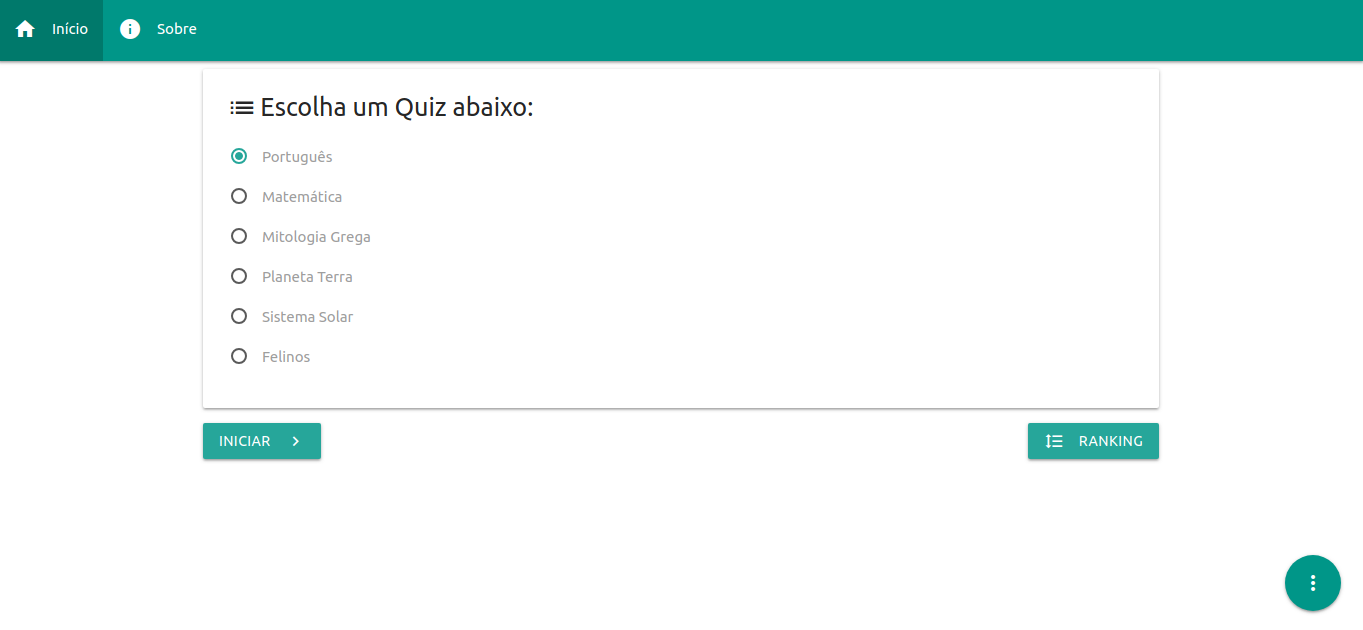
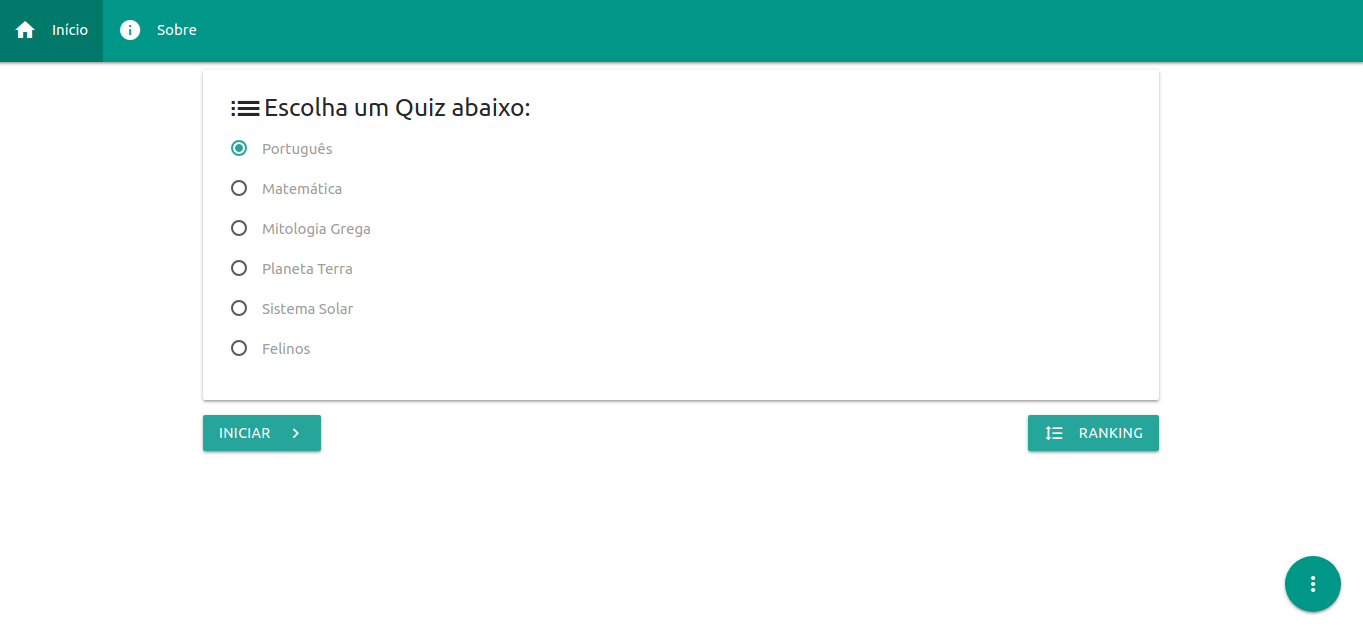
improvements

diff --git a/index.html b/index.html
@@ -1,1 +1,1 @@
-<!DOCTYPE html><html lang="pt-br"> <head> <meta charset="UTF-8"> <meta name="viewport" content="width=device-width, initial-scale=1.0, minimum-scale=1.0, maximum-scale=1.0, user-scalable=no, shrink-to-fit=no"> <meta http-equiv="X-UA-Compatible" content="ie=edge"> <link href="https://fonts.googleapis.com/icon?family=Material+Icons" rel="stylesheet"> <link rel="stylesheet" href="https://cdnjs.cloudflare.com/ajax/libs/materialize/1.0.0/css/materialize.min.css"> <link rel="stylesheet" href="src/style.css"> <link rel="icon" href="images/logo.png"> <meta name="title" content="Quizzes OnLine"> <meta name="description" content="Quizzes OnLine com várias modalidades de perguntas. Quantas você consegue acertar?"/> <meta name="keywords" content="quiz,quizzes,quizes,perguntas,online,lucas naja,javascript,mundo,quizzes,animais"/> <meta name="author" content="Lucas Naja"/> <meta name="mobile-web-app-capable" content="yes"> <meta name="apple-mobile-web-app-capable" content="yes"> <meta name="application-name" content="Quizzes OnLine"> <meta name="apple-mobile-web-app-title" content="Quizzes OnLine"> <meta name="theme-color" content="#009688"> <meta name="msapplication-navbutton-color" content="#009688"> <meta name="apple-mobile-web-app-status-bar-style" content="black-translucent"> <meta name="msapplication-starturl" content="https://lucasnaja.github.io/quizzes/"> <meta property="og:type" content="website"> <meta property="og:url" content="https://lucasnaja.github.io/quizzes/"> <meta property="og:title" content="Quizzes OnLine"> <meta property="og:description" content="Quizzes OnLine com várias modalidades de perguntas. Quantas você consegue acertar?"> <meta property="og:image" content="https://lucasnaja.github.io/quizzes/images/quizzes.png"> <meta property="og:image:alt" content="Quizzes OnLine com várias modalidades de perguntas. Quantas você consegue acertar?"> <meta name="twitter:card" content="summary_large_image"> <meta name="twitter:url" content="https://lucasnaja.github.io/quizzes/"> <meta name="twitter:title" content="Quizzes OnLine"> <meta name="twitter:description" content="Quizzes OnLine com várias modalidades de perguntas. Quantas você consegue acertar?"> <meta name="twitter:image" content="https://lucasnaja.github.io/quizzes/images/quizzes.png"> <meta name="twitter:image:alt" content="Quizzes OnLine com várias modalidades de perguntas. Quantas você consegue acertar?"> <meta name="twitter:creator" content="@LucasNaja0"> <meta name="twitter:site" content="@LucasNaja0"> <meta name="robots" content="index,follow,noodp"/> <meta name="robots" content="noydir"/> <meta name="slurp" content="noydir"/> <title>Quizzes - Início</title> </head> <body> <nav class="teal"> <div class="nav-wrapper"> <a data-target="slide-out" class="sidenav-trigger right c-pt"><i class="material-icons">menu</i></a> <ul id="nav-mobile" class="hide-on-med-and-down"> <li><a title="Início" href="./" class="teal darken-2 us-none">Início<i class="material-icons left">home</i></a></li><li><a title="Sobre" href="sobre/" class="us-none">Sobre<i class="material-icons left">info</i></a></li></ul> </div></nav> <ul id="slide-out" class="sidenav"> <li><a href="./" class="btn waves-effect waves-light teal darken-2">Início</a></li><li><a href="sobre/" class="btn waves-effect waves-light">Sobre</a></li></ul> <section class="container"> <section id="selectQuiz" class="card-panel"> <i class="material-icons small">list</i> <h6 class="flow-text" style="display:inline;top:-7px;position:relative">Escolha um Quiz abaixo:</h6> <p> <label> <input class="with-gap" name="selectQuiz" type="radio" data-text="Português" checked/> <span>Português</span> </label> </p><p> <label> <input class="with-gap" name="selectQuiz" type="radio" data-text="Matemática"/> <span>Matemática</span> </label> </p><p> <label> <input class="with-gap" name="selectQuiz" type="radio" data-text="Mitologia Grega"/> <span>Mitologia Grega</span> </label> </p><p> <label> <input class="with-gap" name="selectQuiz" type="radio" data-text="Planeta Terra"/> <span>Planeta Terra</span> </label> </p><p> <label> <input class="with-gap" name="selectQuiz" type="radio" data-text="Sistema Solar"/> <span>Sistema Solar</span> </label> </p><p> <label> <input class="with-gap" name="selectQuiz" type="radio" data-text="Felinos"/> <span>Felinos</span> </label> </p><div class="fixed-action-btn"> <a class="btn-floating btn-large teal"><i class="material-icons">more_vert</i></a> <ul> <li><a class="btn-floating red modal-trigger" data-target="modal7" title="Limpar Ranking"><i class="material-icons">clear</i></a></li><li><a class="btn-floating teal" href="https://github.com/LucasNaja/quizzes" target="_target" rel="noopener noreferrer" title="Repositório no GitHub"><i class="material-icons">code</i></a></li></ul> </div></section> <section id="quiz" style="position:relative" class="hide"> </section> <button id="start" title="Iniciar Quiz" class="btn waves-effect waves-light">Iniciar<i class="material-icons right">chevron_right</i></button> <button id="rank" title="Ranking Local" class="btn waves-effect waves-light right modal-trigger" data-target="modal4">Ranking<i class="material-icons left">format_line_spacing</i></button> <button id="next" title="Próxima pergunta" class="hide">Próximo<i class="material-icons right">chevron_right</i></button> <button id="giveUp" title="Desistir do Quiz" class="hide" data-target="modal1">Desistir<i class="material-icons right">sentiment_very_dissatisfied</i></button> <button id="finish" title="Finalizar Quiz" class="hide"><i class="material-icons left">chevron_left</i>Finalizar</button> <button id="save" title="Salvar resultado" class="hide" data-target="modal5">Salvar<i class="material-icons left">save</i></button> <button id="showAnswers" title="Ver respostas" class="hide" data-target="modal3">Respostas<i class="material-icons right">question_answer</i></button> </section> <ul id="pagination"> </ul> <section id="modal1" class="modal"> <div class="modal-content"> <h4><i class="material-icons" style="top:1px">sentiment_very_dissatisfied</i> Desistir</h4> <p>Você tem certeza que deseja desistir?</p></div><div class="divider"></div><div class="modal-footer"> <button title="Cancelar" class="btn modal-close waves-effect waves-light">Cancelar</button> <button title="Desistir do Quiz" class="btn modal-close waves-effect waves-light red" onclick="stop()">Desistir<i class="material-icons right">sentiment_very_dissatisfied</i></button> </div></section> <section id="modal2" class="modal"> <div class="modal-content"> <h4><i class="material-icons" id="star" style="top:2px">star</i> Quiz finalizado</h4> <p>Você acertou <span id="points"></span></p></div><div class="divider"></div><div class="modal-footer"> <button title="Fechar" class="btn modal-close waves-effect waves-light">Fechar</button> </div></section> <section id="modal3" class="modal modal-fixed-footer"> <div id="answers" class="modal-content"> </div><div class="divider"></div><div class="modal-footer"> <button title="Fechar" class="btn modal-close waves-effect waves-light">Fechar</button> </div></section> <section id="modal4" class="modal modal-fixed-footer"> <div class="modal-content"> <ul id="tabs" class="tabs tabs-fixed-width z-depth-1"> </ul> <div id="tabItems"></div></div><div class="modal-footer"> <button title="Fechar" class="modal-close waves-effect waves-light btn">Fechar</button> </div></section> <section id="modal5" class="modal"> <div class="modal-content"> <h4><i class="material-icons" style="top:1px">save</i> Salvar</h4> <p>Quiz: <span id="quizSave"></span></p><p>Seus acertos: <span id="hitsSave"></span></p><p>Seu tempo: <span id="timeSave"></span></p><div class="input-field" style="margin:25px 0 0 0"> <input placeholder="Nome" id="name" type="text" minlength=3 class="validate"> <label for="name">Digite seu nome abaixo</label> </div></div><div class="divider"></div><div class="modal-footer"> <button title="Cancelar" class="modal-close waves-effect waves-light btn">Cancelar</button> <button id="btnSave" title="Salvar resultado" class="waves-effect waves-light btn green" onclick="save();renderSavedItems()">Salvar<i class="material-icons right">save</i></button> </div></section> <section id="modal6" class="modal"> <div class="modal-content"> <h4><i class="material-icons" style="top:1px">sentiment_dissatisfied</i> Você perdeu!</h4> <p>Você chegou no limite de tempo, tente novamente!</p></div><div class="divider"></div><div class="modal-footer"> <button title="Fechar" class="modal-close waves-effect waves-light btn">Fechar</button> </div></section> <section id="modal7" class="modal"> <div class="modal-content"> <h4><i class="material-icons left red-text" style="top:8px;margin:0 5px 0 0">clear</i>Limpar Ranking</h4> <p>Você tem certeza que deseja limpar o Ranking?</p></div><div class="modal-footer"> <button title="Cancelar" class="modal-close waves-effect waves-light btn">Cancelar</button> <button title="Limpar Ranking" class="modal-close waves-effect waves-light btn red" onclick="clearSavedItems()">Limpar <i class="material-icons right">clear</i></button> </div></section> <script src="https://cdnjs.cloudflare.com/ajax/libs/materialize/1.0.0/js/materialize.min.js"></script> <script src="src/questions.js"></script> <script src="src/script.js"></script> </body></html>
+<!DOCTYPE html><html lang="pt-br"> <head> <meta charset="UTF-8"> <meta name="viewport" content="width=device-width, initial-scale=1.0, minimum-scale=1.0, maximum-scale=1.0, user-scalable=no, shrink-to-fit=no"> <meta http-equiv="X-UA-Compatible" content="ie=edge"> <link href="https://fonts.googleapis.com/icon?family=Material+Icons" rel="stylesheet"> <link rel="stylesheet" href="https://cdnjs.cloudflare.com/ajax/libs/materialize/1.0.0/css/materialize.min.css"> <link rel="stylesheet" href="src/style.css"> <link rel="icon" href="images/logo.png"> <meta name="title" content="Quizzes OnLine"> <meta name="description" content="Quizzes OnLine com várias modalidades de perguntas. Quantas você consegue acertar?"/> <meta name="keywords" content="quiz,quizzes,quizes,perguntas,online,lucas naja,javascript,mundo,quizzes,animais"/> <meta name="author" content="Lucas Naja"/> <meta name="mobile-web-app-capable" content="yes"> <meta name="apple-mobile-web-app-capable" content="yes"> <meta name="application-name" content="Quizzes OnLine"> <meta name="apple-mobile-web-app-title" content="Quizzes OnLine"> <meta name="theme-color" content="#009688"> <meta name="msapplication-navbutton-color" content="#009688"> <meta name="apple-mobile-web-app-status-bar-style" content="black-translucent"> <meta name="msapplication-starturl" content="https://lucasnaja.github.io/quizzes/"> <meta property="og:type" content="website"> <meta property="og:url" content="https://lucasnaja.github.io/quizzes/"> <meta property="og:title" content="Quizzes OnLine"> <meta property="og:description" content="Quizzes OnLine com várias modalidades de perguntas. Quantas você consegue acertar?"> <meta property="og:image" content="https://lucasnaja.github.io/quizzes/images/quizzes.png"> <meta property="og:image:alt" content="Quizzes OnLine com várias modalidades de perguntas. Quantas você consegue acertar?"> <meta name="twitter:card" content="summary_large_image"> <meta name="twitter:url" content="https://lucasnaja.github.io/quizzes/"> <meta name="twitter:title" content="Quizzes OnLine"> <meta name="twitter:description" content="Quizzes OnLine com várias modalidades de perguntas. Quantas você consegue acertar?"> <meta name="twitter:image" content="https://lucasnaja.github.io/quizzes/images/quizzes.png"> <meta name="twitter:image:alt" content="Quizzes OnLine com várias modalidades de perguntas. Quantas você consegue acertar?"> <meta name="twitter:creator" content="@LucasNaja0"> <meta name="twitter:site" content="@LucasNaja0"> <meta name="robots" content="index,follow,noodp"/> <meta name="robots" content="noydir"/> <meta name="slurp" content="noydir"/> <title>Quizzes - Início</title> </head> <body> <nav class="teal"> <div class="nav-wrapper"> <a data-target="slide-out" class="sidenav-trigger right c-pt"><i class="material-icons">menu</i></a> <ul id="nav-mobile" class="hide-on-med-and-down"> <li><a title="Início" href="./" class="teal darken-2 us-none">Início<i class="material-icons left">home</i></a></li><li><a title="Sobre" href="sobre/" class="us-none">Sobre<i class="material-icons left">info</i></a></li></ul> </div></nav> <ul id="slide-out" class="sidenav"> <li><a href="./" class="btn waves-effect waves-light teal darken-2">Início</a></li><li><a href="sobre/" class="btn waves-effect waves-light">Sobre</a></li></ul> <section class="container"> <section id="selectQuiz" class="card-panel"> <h5 style="margin:-15px 0 0 0"><i class="material-icons" style="top:11px;font-size:37px">list</i>Escolha um Quiz abaixo:</h5> <p> <label> <input class="with-gap" name="selectQuiz" type="radio" data-text="Português" checked/> <span>Português</span> </label> </p><p> <label> <input class="with-gap" name="selectQuiz" type="radio" data-text="Matemática"/> <span>Matemática</span> </label> </p><p> <label> <input class="with-gap" name="selectQuiz" type="radio" data-text="Mitologia Grega"/> <span>Mitologia Grega</span> </label> </p><p> <label> <input class="with-gap" name="selectQuiz" type="radio" data-text="Planeta Terra"/> <span>Planeta Terra</span> </label> </p><p> <label> <input class="with-gap" name="selectQuiz" type="radio" data-text="Sistema Solar"/> <span>Sistema Solar</span> </label> </p><p> <label> <input class="with-gap" name="selectQuiz" type="radio" data-text="Felinos"/> <span>Felinos</span> </label> </p><div class="fixed-action-btn"> <a class="btn-floating btn-large teal waves-effect waves-light" style="-webkit-user-select:none"><i class="material-icons">more_vert</i></a> <ul> <li><a class="btn-floating modal-trigger waves-effect waves-light red" data-target="modal7" title="Limpar Ranking"><i class="material-icons">clear</i></a></li><li><a class="btn-floating waves-effect waves-light teal" href="https://github.com/LucasNaja/quizzes" target="_target" rel="noopener noreferrer" title="Repositório no GitHub"><i class="material-icons">code</i></a></li></ul> </div></section> <section id="quiz" style="position:relative" class="hide"> </section> <button id="start" title="Iniciar Quiz" class="btn waves-effect waves-light">Iniciar<i class="material-icons right">chevron_right</i></button> <button id="rank" title="Ranking Local" class="btn waves-effect waves-light right modal-trigger" data-target="modal4">Ranking<i class="material-icons left">format_line_spacing</i></button> <button id="next" title="Próxima pergunta" class="hide">Próximo<i class="material-icons right">chevron_right</i></button> <button id="giveUp" title="Desistir do Quiz" class="hide" data-target="modal1">Desistir<i class="material-icons right">sentiment_very_dissatisfied</i></button> <button id="finish" title="Finalizar Quiz" class="hide"><i class="material-icons left">chevron_left</i>Finalizar</button> <button id="save" title="Salvar resultado" class="hide" data-target="modal5">Salvar<i class="material-icons left">save</i></button> <button id="showAnswers" title="Ver respostas" class="hide" data-target="modal3">Respostas<i class="material-icons right">question_answer</i></button> </section> <ul id="pagination"> </ul> <section id="modal1" class="modal"> <div class="modal-content"> <h4><i class="material-icons" style="top:1px">sentiment_very_dissatisfied</i> Desistir</h4> <p>Você tem certeza que deseja desistir?</p></div><div class="divider"></div><div class="modal-footer"> <button title="Cancelar" class="btn modal-close waves-effect waves-light">Cancelar</button> <button title="Desistir do Quiz" class="btn modal-close waves-effect waves-light red" onclick="stop()">Desistir<i class="material-icons right">sentiment_very_dissatisfied</i></button> </div></section> <section id="modal2" class="modal"> <div class="modal-content"> <h4><i class="material-icons" id="star" style="top:2px">star</i> Quiz finalizado</h4> <p>Você acertou <span id="points"></span></p></div><div class="divider"></div><div class="modal-footer"> <button title="Fechar" class="btn modal-close waves-effect waves-light">Fechar</button> </div></section> <section id="modal3" class="modal modal-fixed-footer"> <div id="answers" class="modal-content"> </div><div class="divider"></div><div class="modal-footer"> <button title="Fechar" class="btn modal-close waves-effect waves-light">Fechar</button> </div></section> <section id="modal4" class="modal modal-fixed-footer"> <div class="modal-content"> <ul id="tabs" class="tabs tabs-fixed-width z-depth-1"> </ul> <div id="tabItems"></div></div><div class="modal-footer"> <button title="Fechar" class="modal-close waves-effect waves-light btn">Fechar</button> </div></section> <section id="modal5" class="modal"> <div class="modal-content"> <h4><i class="material-icons" style="top:1px">save</i> Salvar</h4> <p>Quiz: <span id="quizSave"></span></p><p>Seus acertos: <span id="hitsSave"></span></p><p>Seu tempo: <span id="timeSave"></span></p><div class="input-field" style="margin:25px 0 0 0"> <input placeholder="Nome" id="name" type="text" minlength=3 class="validate"> <label for="name">Digite seu nome abaixo</label> </div></div><div class="divider"></div><div class="modal-footer"> <button title="Cancelar" class="modal-close waves-effect waves-light btn">Cancelar</button> <button id="btnSave" title="Salvar resultado" class="waves-effect waves-light btn green" onclick="save();renderSavedItems()">Salvar<i class="material-icons right">save</i></button> </div></section> <section id="modal6" class="modal"> <div class="modal-content"> <h4><i class="material-icons" style="top:1px">sentiment_dissatisfied</i> Você perdeu!</h4> <p>Você chegou no limite de tempo, tente novamente!</p></div><div class="divider"></div><div class="modal-footer"> <button title="Fechar" class="modal-close waves-effect waves-light btn">Fechar</button> </div></section> <section id="modal7" class="modal"> <div class="modal-content"> <h4><i class="material-icons left red-text" style="top:8px;margin:0 5px 0 0">clear</i>Limpar Ranking</h4> <p>Você tem certeza que deseja limpar o Ranking?</p></div><div class="modal-footer"> <button title="Cancelar" class="modal-close waves-effect waves-light btn">Cancelar</button> <button title="Limpar Ranking" class="modal-close waves-effect waves-light btn red" onclick="clearSavedItems()">Limpar <i class="material-icons right">clear</i></button> </div></section> <script src="https://cdnjs.cloudflare.com/ajax/libs/materialize/1.0.0/js/materialize.min.js"></script> <script src="src/questions.js"></script> <script src="src/script.js"></script> </body></html>

diff --git a/src/script.js b/src/script.js
@@ -1,4 +1,4 @@
-const btnNext=document.querySelector('#next'),btnStart=document.querySelector('#start'),btnGiveUp=document.querySelector('#giveUp'),btnShowAnswers=document.querySelector('#showAnswers'),btnFinish=document.querySelector('#finish'),btnSave=document.querySelector('#save'),btnRanking=document.querySelector('#rank'),selectQuiz=document.querySelector('#selectQuiz'),quiz=document.querySelector('#quiz'),pagination=document.querySelector('#pagination'),winPoints=document.querySelector('#points'),star=document.querySelector('#star'),showAnswers=document.querySelector('#answers'),quisSave=document.querySelector('#quizSave'),hitsSave=document.querySelector('#hitsSave'),timeSave=document.querySelector('#timeSave'),textName=document.querySelector('#name'),types=document.querySelectorAll('[name=selectQuiz]'),modal5=document.querySelector('#modal5');let timeInterval,points=0,currentQuestion=0,matches=[],selectedType=-1,time=0;null===localStorage.getItem('clearUpdate1')&&(clearSavedItems(),localStorage.setItem('clearUpdate1',!0)),document.addEventListener('DOMContentLoaded',function(){M.Sidenav.init(document.querySelectorAll('.sidenav')),M.Modal.init(document.querySelectorAll('.modal')),M.FloatingActionButton.init(document.querySelectorAll('.fixed-action-btn'),{hoverEnabled:!1})}),modal5.onkeydown=a=>{13===a.which&&(save(),renderSavedItems())};function render(){let a=`<p id="time" style="margin:5px 0 0 0">${timeProgress(time)}<i class="material-icons right" style="top:-2px;margin-left:5px">access_time</i></p><h6>${currentQuestion+1}. ${questions[selectedType][currentQuestion]}</h6>`;const b=[answers[selectedType][currentQuestion],...fakeAnswers[selectedType][currentQuestion]],c=[];for(let f,d=0;d<b.length;d++){for(f=parseInt(Math.random()*b.length);-1!==c.indexOf(f);)f=parseInt(Math.random()*b.length);c[d]=f;a+=`
+const btnNext=document.querySelector('#next'),btnStart=document.querySelector('#start'),btnGiveUp=document.querySelector('#giveUp'),btnShowAnswers=document.querySelector('#showAnswers'),btnFinish=document.querySelector('#finish'),btnSave=document.querySelector('#save'),btnRanking=document.querySelector('#rank'),selectQuiz=document.querySelector('#selectQuiz'),quiz=document.querySelector('#quiz'),pagination=document.querySelector('#pagination'),winPoints=document.querySelector('#points'),star=document.querySelector('#star'),showAnswers=document.querySelector('#answers'),quisSave=document.querySelector('#quizSave'),hitsSave=document.querySelector('#hitsSave'),timeSave=document.querySelector('#timeSave'),textName=document.querySelector('#name'),types=document.querySelectorAll('[name=selectQuiz]'),modal5=document.querySelector('#modal5');let timeInterval,points=0,currentQuestion=0,matches=[],selectedType=-1,time=0;null===localStorage.getItem('clearUpdate1')&&clearSavedItems(),document.addEventListener('DOMContentLoaded',function(){M.Sidenav.init(document.querySelectorAll('.sidenav')),M.Modal.init(document.querySelectorAll('.modal')),M.FloatingActionButton.init(document.querySelectorAll('.fixed-action-btn'),{hoverEnabled:!1})}),modal5.onkeydown=a=>{13===a.which&&(save(),renderSavedItems())};function render(){let a=`<p id="time" style="margin:5px 0 0 0">${timeProgress(time)}<i class="material-icons right" style="top:-2px;margin-left:5px">access_time</i></p><h6>${currentQuestion+1}. ${questions[selectedType][currentQuestion]}</h6>`;const b=[answers[selectedType][currentQuestion],...fakeAnswers[selectedType][currentQuestion]],c=[];for(let f,d=0;d<b.length;d++){for(f=parseInt(Math.random()*b.length);-1!==c.indexOf(f);)f=parseInt(Math.random()*b.length);c[d]=f;a+=`
         <p>
           <label>
             <input class="with-gap" name="question${currentQuestion}" data-text="${b[f]}" type="radio" />
@@ -8,7 +8,7 @@ const btnNext=document.querySelector('#next'),btnStart=document.querySelector('#
       `}createPagination(),quiz.innerHTML=a}function createPagination(){htmlPagination='<li class="disabled"><a><i class="material-icons">chevron_left</i></a></li>';for(let a=0;a<questions[selectedType].length;a++)htmlPagination+=`<li class="${matches[a]===void 0?'':'waves-effect waves-light'} ${currentQuestion===a?'active teal c-df no-border waves-effect waves-light':`${matches[a]===void 0?'disabled':1===matches[a]?`active green c-df no-border ${a===questions[selectedType].length-1?'':'brw'}`:`active red c-df no-border ${a===questions[selectedType].length-1?'':'brw'}`}`}"><a>${a+1}</a></li>`;htmlPagination+='<li class="disabled"><a><i class="material-icons">chevron_right</i></a></li>',pagination.innerHTML=htmlPagination}function timeProgress(a){const b=parseInt(a/3600);a-=3600*b;const c=parseInt(a/60);return a-=60*c,1===b?(M.Modal.getInstance(document.querySelector('#modal6')).open(),void stop()):`${c}m ${a}s`}function reTimeProgress(a=String){const b=a.split(' '),c=60*parseInt(b[0].replace('m',''))+parseInt(b[1].replace('s',''));return c}function start(){selectQuiz.className='hide',btnStart.className='hide',quiz.className='card-panel',btnNext.className='btn waves-effect waves-light',btnGiveUp.className='btn right waves-effect waves-light modal-trigger red',pagination.className='pagination center',btnRanking.className='hide',types.forEach((a,b)=>{a.checked&&(selectedType=b,document.title=`Quiz - ${a.getAttribute('data-text')}`)}),render(),timeInterval=setInterval(()=>{document.querySelector('#time').innerHTML=`${timeProgress(++time)}<i class="material-icons right" style="top:-2px;margin-left:5px">access_time</i>`},1e3)}function stop(){selectQuiz.className='card-panel',btnStart.className='btn waves-effect waves-light',quiz.className='hide',btnNext.className='hide',btnGiveUp.className='hide',btnShowAnswers.className='hide',btnFinish.className='hide',pagination.className='hide',btnRanking.className='btn waves-effect waves-light right modal-trigger',btnSave.className='hide',document.title='Quizzes - In\xEDcio',points=0,currentQuestion=0,selectedType=-1,matches=[],clearInterval(timeInterval),time=0}function next(){const a=document.querySelectorAll(`[name=question${currentQuestion}]`);let b=0;if(a.forEach(c=>{c.checked||b++}),b===a.length)M.toast({html:'Voc\xEA deve selecionar uma resposta!',classes:'red accent-4',displayLength:2050});else if(a.forEach(c=>{c.checked&&c.getAttribute('data-text')===answers[selectedType][currentQuestion]&&(matches.push(1),points+=1)}),void 0===matches[currentQuestion]&&matches.push(0),currentQuestion+=1,currentQuestion===answers[selectedType].length){clearInterval(timeInterval),a.forEach(d=>{d.disabled=!0}),btnNext.className='btn waves-effect waves-light hide',btnGiveUp.className='hide',btnShowAnswers.className='btn waves-effect waves-light right modal-trigger',btnSave.className='btn waves-effect waves-light modal-trigger green',btnShowAnswers.onclick=()=>{let d='<h4><i class="material-icons" style="top:2px">question_answer</i> Respostas</h4>';for(let f=0;f<answers[selectedType].length;f++)d+=`
             <p style="margin:0">${f+1}. ${questions[selectedType][f]}</p>
             <p style="margin:0 0 10px 0">R: ${answers[selectedType][f]} <i class="material-icons ${0===matches[f]?'red-text':'green-text'}" style="top:${0===matches[f]?'7':'5'}px;margin:-7px 0 0 0">${0===matches[f]?'clear':'done'}</i></p>
-          `;showAnswers.innerHTML=d},btnFinish.className='btn waves-effect waves-light',quisSave.innerHTML=types[selectedType].getAttribute('data-text'),hitsSave.innerHTML=`${matches.filter(d=>1===d).length}/${questions[selectedType].length}`,timeSave.innerHTML=timeProgress(time);const c=100*(points/answers[selectedType].length);winPoints.innerHTML=`${points} de ${questions[selectedType].length} e obteve um desempenho de <span class="${50>c?'red-text':'green-text'}">${c.toFixed(1)}%</span>`,star.className=`material-icons ${50>c?'red-text':'green-text'}`,M.Modal.getInstance(document.querySelector('#modal2')).open(),createPagination()}else render()}function arraySort(a){const b=[];for(let c=-1,d=-1,f=3600;0<a.length;){for(let g=0;g<a.length;g++)a[g][2]>c?(d=g,f=reTimeProgress(a[g][4]),c=a[g][2]):a[g][2]===c&&reTimeProgress(a[g][4])<f&&(d=g,f=reTimeProgress(a[g][4]));c=-1,f=3600,b.push(a[d]),a.splice(d,1)}return b}function save(){if(''!==textName.value.trim()&&2<textName.value.length){null===localStorage.getItem('clearUpdate1')&&localStorage.setItem('clearUpdate1',!0);const a=localStorage.getItem('registeredItems');if(null===a)localStorage.setItem('registeredItems',`{"items": [["${types[selectedType].getAttribute('data-text')}", "${textName.value}", ${matches.filter(b=>1===b).length}, ${questions[selectedType].length}, "${timeProgress(time)}"]]}`);else{let b=JSON.parse(a).items;b.push([types[selectedType].getAttribute('data-text'),textName.value,matches.filter(c=>1===c).length,questions[selectedType].length,timeProgress(time)]),b=arraySort(b),localStorage.setItem('registeredItems',`{"items": ${JSON.stringify(b)}}`)}M.Modal.getInstance(modal5).close(),btnSave.className='hide',textName.value='',textName.select()}else M.toast({html:'Por favor, escolha um nome v\xE1lido!',classes:'red accent-4',displayLength:2050}),textName.select()}function renderSavedItems(){M.Tabs.getInstance(document.querySelector('#tabs'))!==void 0&&M.Tabs.getInstance(document.querySelector('#tabs')).destroy();let c,d,a='',b='';const f=localStorage.getItem('registeredItems'),g='<table class="responsive-table highlight"><thead><tr><th>Nome</th><th>Acertos</th><th>Tempo</th></tr></thead><tbody>';null!==f&&(d=JSON.parse(f).items);for(let h=0;h<types.length;h++){if(a+=`<li class="tab"><a ${0===h?'class="active"':''} href="#quiz${h}">${types[h].getAttribute('data-text')}</a></li>`,c=g,null!==f)for(let k=0;k<d.length;k++)types[h].getAttribute('data-text')===d[k][0]&&(c+=`
+          `;showAnswers.innerHTML=d},btnFinish.className='btn waves-effect waves-light',quisSave.innerHTML=types[selectedType].getAttribute('data-text'),hitsSave.innerHTML=`${matches.filter(d=>1===d).length}/${questions[selectedType].length}`,timeSave.innerHTML=timeProgress(time);const c=100*(points/answers[selectedType].length);winPoints.innerHTML=`${points} de ${questions[selectedType].length} e obteve um desempenho de <span class="${50>c?'red-text':'green-text'}">${c.toFixed(1)}%</span>`,star.className=`material-icons ${50>c?'red-text':'green-text'}`,M.Modal.getInstance(document.querySelector('#modal2')).open(),createPagination()}else render()}function arraySort(a){const b=[];for(let c=-1,d=-1,f=3600;0<a.length;){for(let g=0;g<a.length;g++)a[g][2]>c?(d=g,f=reTimeProgress(a[g][4]),c=a[g][2]):a[g][2]===c&&reTimeProgress(a[g][4])<f&&(d=g,f=reTimeProgress(a[g][4]));c=-1,f=3600,b.push(a[d]),a.splice(d,1)}return b}function save(){if(''!==textName.value.trim()&&2<textName.value.length){const a=localStorage.getItem('registeredItems');if(null===a)localStorage.setItem('registeredItems',`{"items": [["${types[selectedType].getAttribute('data-text')}", "${textName.value}", ${matches.filter(b=>1===b).length}, ${questions[selectedType].length}, "${timeProgress(time)}"]]}`);else{let b=JSON.parse(a).items;b.push([types[selectedType].getAttribute('data-text'),textName.value,matches.filter(c=>1===c).length,questions[selectedType].length,timeProgress(time)]),b=arraySort(b),localStorage.setItem('registeredItems',`{"items": ${JSON.stringify(b)}}`)}M.Modal.getInstance(modal5).close(),btnSave.className='hide',textName.value='',textName.select()}else M.toast({html:'Por favor, escolha um nome v\xE1lido!',classes:'red accent-4',displayLength:2050}),textName.select()}function renderSavedItems(){M.Tabs.getInstance(document.querySelector('#tabs'))!==void 0&&M.Tabs.getInstance(document.querySelector('#tabs')).destroy(),null===localStorage.getItem('clearUpdate1')&&localStorage.setItem('clearUpdate1',!0);let c,d,a='',b='';const f=localStorage.getItem('registeredItems'),g='<table class="responsive-table highlight"><thead><tr><th>Nome</th><th>Acertos</th><th>Tempo</th></tr></thead><tbody>';null!==f&&(d=JSON.parse(f).items);for(let h=0;h<types.length;h++){if(a+=`<li class="tab"><a ${0===h?'class="active"':''} href="#quiz${h}">${types[h].getAttribute('data-text')}</a></li>`,c=g,null!==f)for(let k=0;k<d.length;k++)types[h].getAttribute('data-text')===d[k][0]&&(c+=`
             <tr>
               <td>${d[k][1]}</td>
               <td>${d[k][2]}/${d[k][3]}</td>
